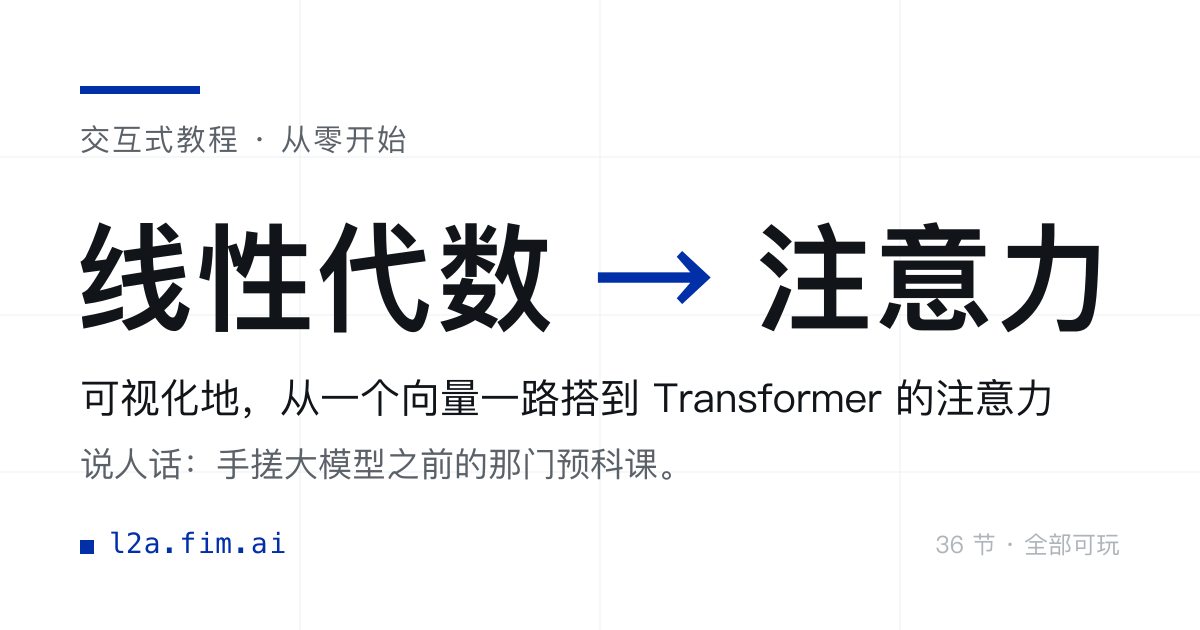
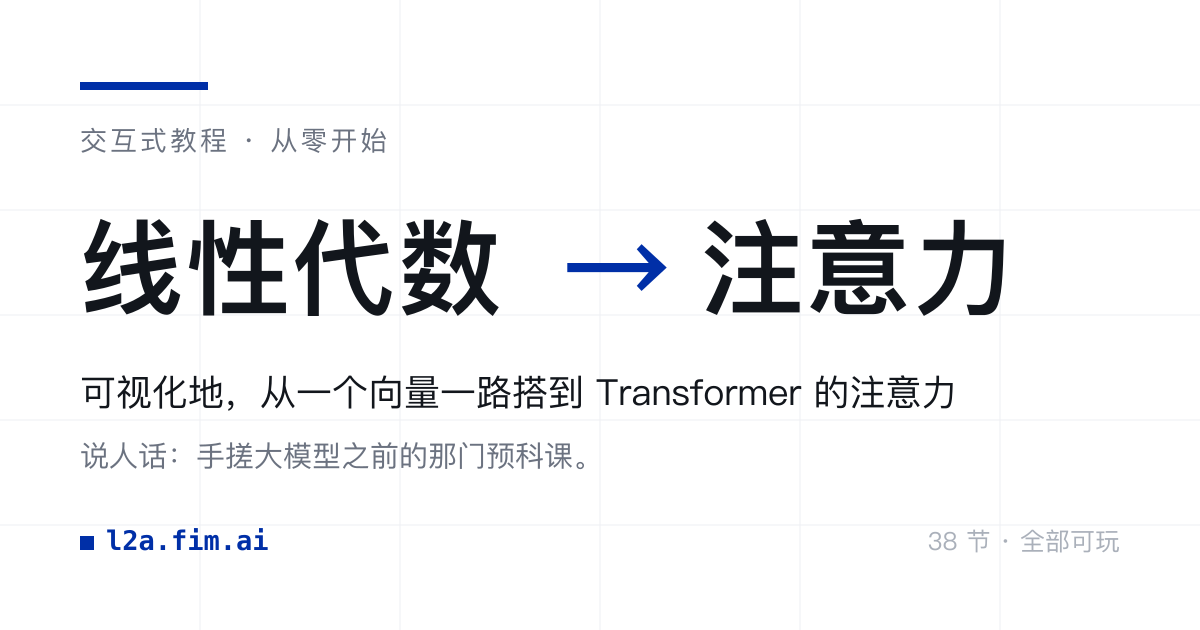
fix: 分享卡还印着「36 节」，改成从 chapters.ts 生成并加构建期校验
og.png 是手工产物，右下角的章节数是烤进像素里的。章节加到 38 之后没人
想得起来重画，对外的分享卡就一直在说「36 节」——和 README 那处同源的漂移。

- 新增 scripts/og.mjs：卡面文字全部从 chapters.ts 读，渲染成 1200×630 PNG
  （rsvg-convert 或 ImageMagick，二者有其一即可）。跑 `pnpm og` 重新生成。
- prerender.mjs 增加一致性校验：比对 scripts/og.stamp.json 与 chapters.ts，
  不一致直接让构建失败并提示跑 pnpm og。这类漂移以后进不了线上。
- 构建本身不依赖渲染工具：og.png 已提交，校验只读戳记文件。
- 补齐缺失的社交标签：og:site_name、og:locale、og:image:type、
  og:image:alt、twitter:image:alt。38 个预渲染章节页一并继承。

Claude-Session: https://claude.ai/code/session_0112JqVyQeNsv5EJSwpC2xEQ

diff --git a/index.html b/index.html
@@ -13,13 +13,18 @@
     <meta property="og:description" content="可视化地，从一个向量一路搭到 Transformer 的注意力机制。" />
     <meta property="og:type" content="website" />
     <meta property="og:url" content="https://l2a.fim.ai" />
+    <meta property="og:site_name" content="线性代数 → 注意力" />
+    <meta property="og:locale" content="zh_CN" />
     <meta property="og:image" content="https://l2a.fim.ai/og.png" />
     <meta property="og:image:width" content="1200" />
     <meta property="og:image:height" content="630" />
+    <meta property="og:image:type" content="image/png" />
+    <meta property="og:image:alt" content="线性代数 → 注意力 · 可视化地，从一个向量一路搭到 Transformer 的注意力" />
     <meta name="twitter:card" content="summary_large_image" />
     <meta name="twitter:title" content="线性代数 → 注意力" />
     <meta name="twitter:description" content="可视化地，从一个向量一路搭到 Transformer 的注意力机制。" />
     <meta name="twitter:image" content="https://l2a.fim.ai/og.png" />
+    <meta name="twitter:image:alt" content="线性代数 → 注意力 · 可视化地，从一个向量一路搭到 Transformer 的注意力" />
     <link rel="canonical" href="https://l2a.fim.ai" />
   </head>
   <body>
